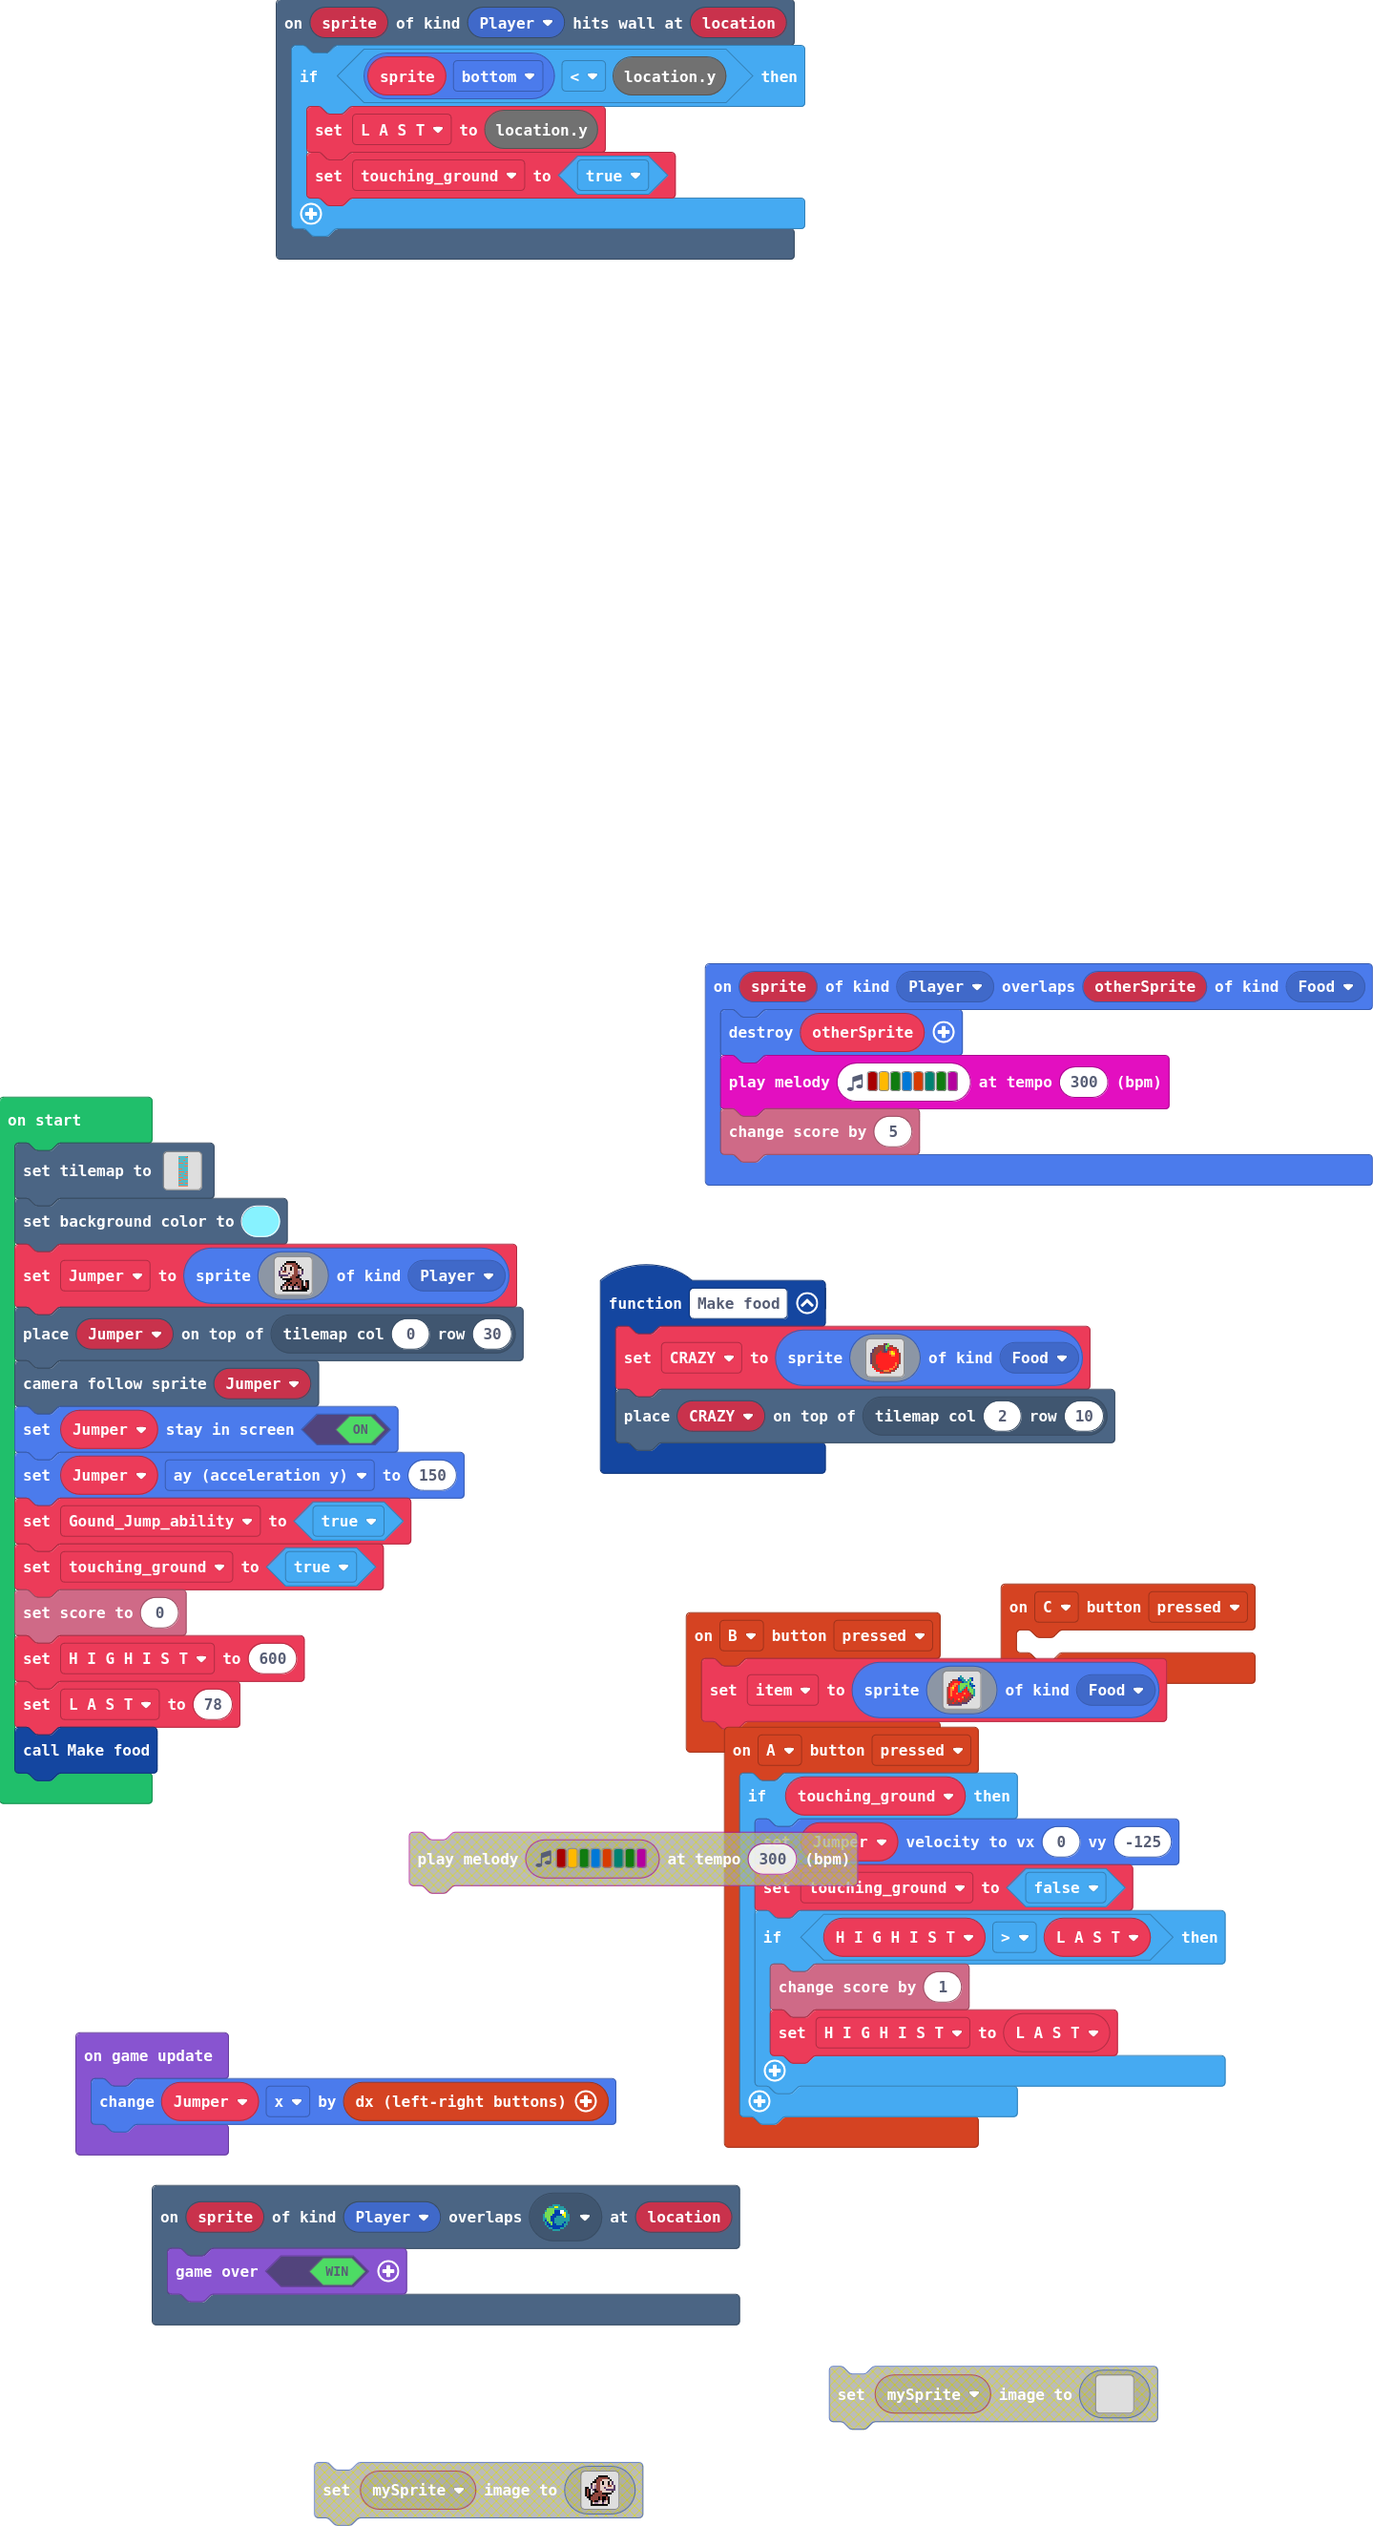
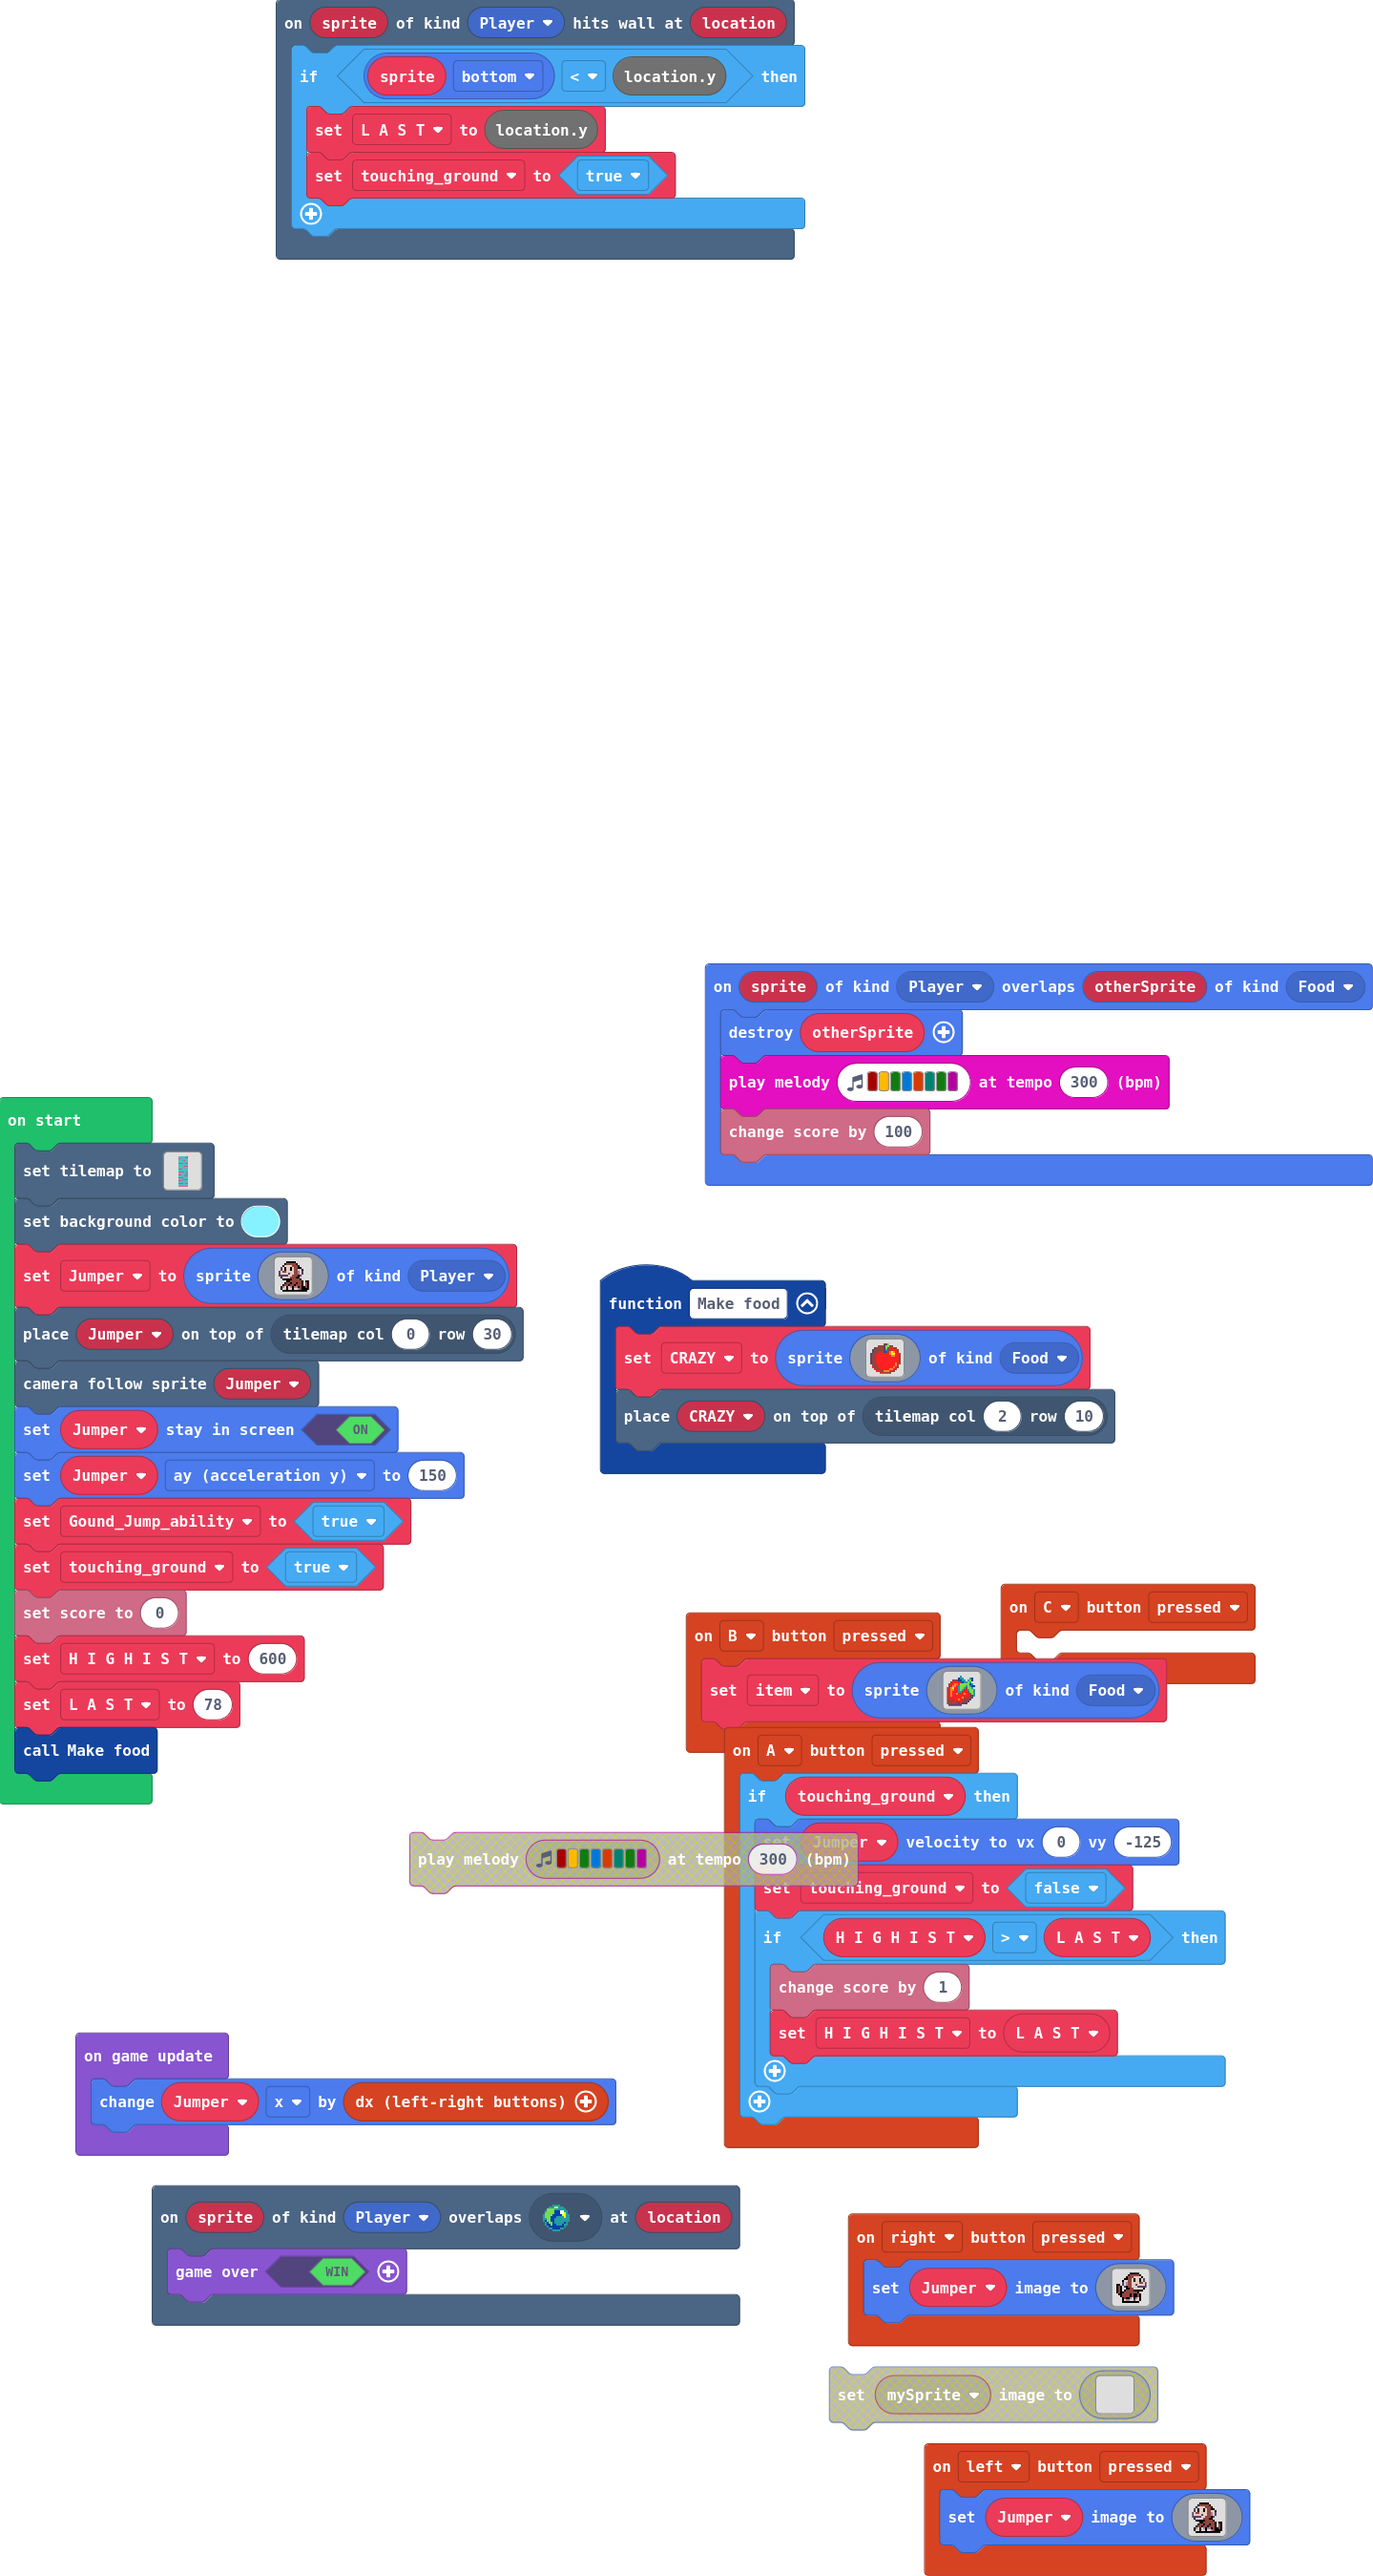
made change dirrection and changed map

diff --git a/tilemap.g.ts b/tilemap.g.ts
@@ -11,8 +11,6 @@ namespace myTiles {
     //% fixedInstance jres blockIdentity=images._tile
     export const tile2 = image.ofBuffer(hex``);
     //% fixedInstance jres blockIdentity=images._tile
-    export const tile5 = image.ofBuffer(hex``);
-    //% fixedInstance jres blockIdentity=images._tile
     export const tile6 = image.ofBuffer(hex``);
     //% fixedInstance jres blockIdentity=images._tile
     export const tile7 = image.ofBuffer(hex``);
@@ -24,6 +22,12 @@ namespace myTiles {
     export const tile10 = image.ofBuffer(hex``);
     //% fixedInstance jres blockIdentity=images._tile
     export const tile11 = image.ofBuffer(hex``);
+    //% fixedInstance jres blockIdentity=images._tile
+    export const tile5 = image.ofBuffer(hex``);
+    //% fixedInstance jres blockIdentity=images._tile
+    export const tile12 = image.ofBuffer(hex``);
+    //% fixedInstance jres blockIdentity=images._tile
+    export const tile13 = image.ofBuffer(hex``);
 
     helpers._registerFactory("tilemap", function(name: string) {
         switch(helpers.stringTrim(name)) {
@@ -212,7 +216,7 @@ namespace myTiles {
 . . . . . . . . . . . . . . . . 
 `, [myTiles.transparency16], TileScale.Sixteen);
             case "level6":
[2 lines of base64/hex data omitted]
 ..........
 .......222
 22........
@@ -245,7 +249,7 @@ namespace myTiles {
 ..........
 ..........
 2222222222
-`, [myTiles.transparency16,sprites.dungeon.collectibleInsignia,sprites.dungeon.collectibleRedCrystal,sprites.dungeon.collectibleBlueCrystal], TileScale.Sixteen);
+`, [myTiles.transparency16,sprites.dungeon.collectibleInsignia,myTiles.tile12,myTiles.tile13], TileScale.Sixteen);
         }
         return null;
     })
@@ -261,8 +265,6 @@ namespace myTiles {
             case "tile1":return tile1;
             case "myTile0":
             case "tile2":return tile2;
-            case "myTile3":
-            case "tile5":return tile5;
             case "myTile4":
             case "tile6":return tile6;
             case "myTile5":
@@ -275,6 +277,12 @@ namespace myTiles {
             case "tile10":return tile10;
             case "myTile9":
             case "tile11":return tile11;
+            case "myTile3":
+            case "tile5":return tile5;
+            case "myTile10":
+            case "tile12":return tile12;
+            case "myTile11":
+            case "tile13":return tile13;
         }
         return null;
     })

diff --git a/main.ts b/main.ts
@@ -21,16 +21,56 @@ controller.A.onEvent(ControllerButtonEvent.Pressed, function () {
         }
     }
 })
+controller.left.onEvent(ControllerButtonEvent.Pressed, function () {
+    Jumper.setImage(img`
+        . . . . f f f f f . . . . . . . 
+        . . . f e e e e e f . . . . . . 
+        . . f d d d d e e e f . . . . . 
+        . c d f d d f d e e f f . . . . 
+        . c d f d d f d e e d d f . . . 
+        c d e e d d d d e e b d c . . . 
+        c d d d d c d d e e b d c . . . 
+        c c c c c d d e e e f c . . . . 
+        . f d d d d e e e f f . . . . . 
+        . . f f f f f e e e e f . . . . 
+        . . . . f f e e e e e e f . f f 
+        . . . f e e f e e f e e f . e f 
+        . . f e e f e e f e e e f . e f 
+        . f b d f d b f b b f e f f e f 
+        . f d d f d d f d d b e f f f f 
+        . . f f f f f f f f f f f f f . 
+        `)
+})
 controller.C.onEvent(ControllerButtonEvent.Pressed, function () {
 	
 })
 scene.onOverlapTile(SpriteKind.Player, sprites.dungeon.collectibleBlueCrystal, function (sprite, location) {
     game.over(true)
 })
+controller.right.onEvent(ControllerButtonEvent.Pressed, function () {
+    Jumper.setImage(img`
+        . . . . . . . f f f f f . . . . 
+        . . . . . . f e e e e e f . . . 
+        . . . . . f e e e d d d d f . . 
+        . . . . f f e e d f d d f d c . 
+        . . . f d d e e d f d d f d c . 
+        . . . c d b e e d d d d e e d c 
+        f f . c d b e e d d c d d d d c 
+        f e f . c f e e d d d c c c c c 
+        f e f . . f f e e d d d d d f . 
+        f e f . f e e e e f f f f f . . 
+        f e f f e e e e e e e f . . . . 
+        . f f e e e e f e f f e f . . . 
+        . . f e e e e f e f f e f . . . 
+        . . . f e f f b d f b d f . . . 
+        . . . f d b b d d c d d f . . . 
+        . . . f f f f f f f f f . . . . 
+        `)
+})
 sprites.onOverlap(SpriteKind.Player, SpriteKind.Food, function (sprite, otherSprite) {
     otherSprite.destroy()
     music.playMelody("C5 A G E B F G C ", 300)
-    info.changeScoreBy(5)
+    info.changeScoreBy(100)
 })
 let CRAZY: Sprite = null
 let item: Sprite = null
